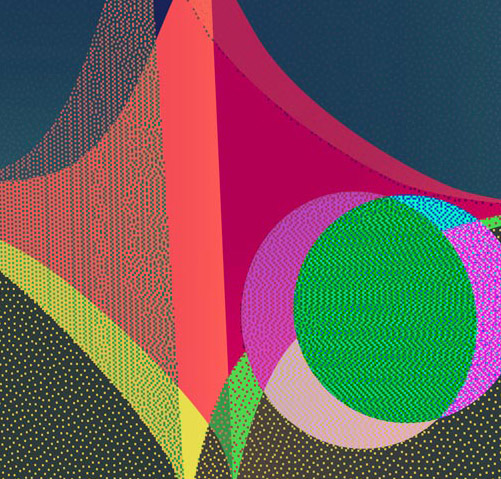
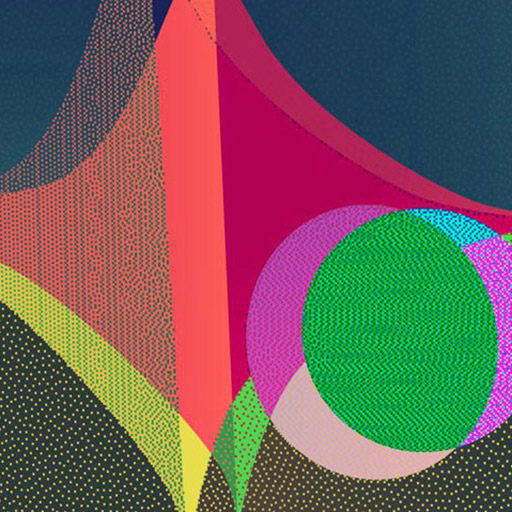
changed textures

diff --git a/js/app.js b/js/app.js
@@ -36,31 +36,66 @@ var PosArr = [
 
 var txtArr = [
     'img/t2.jpg',
-    'img/t7.jpg',
-    'img/t6.jpg',
     'img/t4.jpg',
-    'img/check3.jpg',
-    'img/check2.jpg',
-    'img/check1.jpg'
+    'img/t6.jpg',
+    'img/t7.jpg',
+    'img/t8.jpg',
+    'img/t9.jpg', 
+    'img/t2.jpg',
+    'img/t4.jpg',
+    'img/t6.jpg',
+    'img/t7.jpg',
+    'img/t8.jpg',
+    'img/t9.jpg'
 ]
 
 var textureArr = [];
 
-for (let i = 1; i < txtArr.length; i++) {
-
+for (let i = 0; i < txtArr.length; i++) {
     textureArr[i] = THREE.ImageUtils.loadTexture(txtArr[i]);
     textureArr[i].wrapS = textureArr[i].wrapT = THREE.RepeatWrapping;
     textureArr[i].offset.set(0, 0);
 }
 
-
 var TXTMaterial = [];
-for (let i = 1; i < txtArr.length; i++) {
+
+for (let i = 0; i < txtArr.length; i++) {
     TXTMaterial[i] = new THREE.MeshBasicMaterial({
         map: textureArr[i],
         overdraw: true
     });
 }
+
+
+// Floating box textures
+
+var TXTBoxSideMaterial = [];
+var TXTBoxSQMaterial = [];
+var txtBoxSideArr = ['img/BOX-SIDE-01.jpg', 'img/BOX-SIDE-02.jpg', 'img/BOX-SIDE-03.jpg'];
+
+for (let i = 0; i < txtBoxSideArr.length; i++) {
+    // Box side
+    let textureBoxSideArr = THREE.ImageUtils.loadTexture(txtBoxSideArr[i]);
+    textureBoxSideArr.wrapS = textureBoxSideArr.wrapT = THREE.RepeatWrapping;
+    textureBoxSideArr.repeat.set(1, 0.666666);
+    textureBoxSideArr.offset.set(0, 0.33333);
+    TXTBoxSideMaterial[i] = new THREE.MeshBasicMaterial({
+        map: textureBoxSideArr,
+        overdraw: true
+    });
+    // Box square
+    let textureBoxSQ = THREE.ImageUtils.loadTexture(txtBoxSideArr[i]);
+    textureBoxSQ.wrapS = textureBoxSQ.wrapT = THREE.RepeatWrapping;
+    textureBoxSQ.repeat.set(1, 0.333);
+    textureBoxSQ.offset.set(0, 0);
+    TXTBoxSQMaterial[i] = new THREE.MeshBasicMaterial({
+        map: textureBoxSQ,
+        overdraw: true
+    });
+}
+
+console.log(TXTBoxSQMaterial);
+
 
 var TZATexture = new THREE.TextureLoader().load('img/check4.jpg');
 TZATexture.anisotropy = 4;
@@ -97,19 +132,34 @@ var TZAMaterialCyl = new THREE.MeshPhongMaterial({
 
 function createMaterials() {
 
-    var rndTXT = Math.floor((Math.random() * (6 - 1)) + 1);
+    var rndTXT = Math.floor((Math.random() * textureArr.length));
 
     var materials = [
         TZAMaterial,
         TZAMaterial,
         TZAMaterial,
-        TXTMaterial[Math.floor((Math.random() * (4 - 1)) + 1)],
-        TXTMaterial[Math.floor((Math.random() * (4 - 1)) + 1)],
-        TXTMaterial[Math.floor((Math.random() * (4 - 1)) + 1)]
+        TXTMaterial[Math.floor((Math.random() * textureArr.length))],
+        TXTMaterial[Math.floor((Math.random() * textureArr.length))],
+        TXTMaterial[Math.floor((Math.random() * textureArr.length))]
 
     ];
     return materials;
 }
+
+
+function createMaterialBox(j) {
+    console.log('j:' + j);
+    var materials = [
+        TZAMaterial,
+        TZAMaterial,
+        TXTBoxSideMaterial[j],
+        TXTBoxSideMaterial[j],
+        TXTBoxSQMaterial[j],
+        TXTBoxSQMaterial[j]
+    ];
+    return materials;
+}
+
 
 function createMaterialsMobile() {
 
@@ -234,7 +284,7 @@ function init() {
 
 
             scene.add(meshArr[j]);
-            if (isMobile) {
+            if (true) { // TODO: check if device orientation 
                 // camera = new THREE.PerspectiveCamera(75, window.innerWidth / window.innerHeight, 20, 1000);
                 controls = new THREE.DeviceOrientationControls(scene);
 
@@ -254,47 +304,25 @@ function init() {
             if (j % 2) { // create box
 
 
-                boxArr[j] = new THREE.BoxBufferGeometry(boxWidth * 0.6, boxWidth, 120);
-                meshArr[j] = new THREE.Mesh(boxArr[j], createMaterials());
+                boxArr[j] = new THREE.BoxBufferGeometry(boxWidth, boxWidth, boxWidth * 2);
+                meshArr[j] = new THREE.Mesh(boxArr[j], createMaterialBox(Math.floor(Math.random() * 3 )));
 
             } else if (j % 3) { // create triangle cylincer
                 tmpCylinder = new THREE.CylinderGeometry(cylBase, cylBase, boxHeight , 3);
-                tmpCylinderGeo = new THREE.Mesh(tmpCylinder);
-                tmpCylinderGeo.position.y = 0;
-                tmpCylinderBsp = new ThreeBSP(tmpCylinderGeo);
-                var sphere_geometry = new THREE.CubeGeometry(200, cylBase * 2, 200);
-                var cube1 = new THREE.Mesh(sphere_geometry);
-                cube1.position.y = boxHeight/2;
-
-                cube1.rotation.z = Math.random();
-
-                var cube1_bsp = new ThreeBSP(cube1);
-
-                var cube2 = new THREE.Mesh(sphere_geometry);
-                cube2.position.y = (boxHeight/2) * -1;
-
-                cube2.rotation.z = -Math.random();
-
-                var cube2_bsp = new ThreeBSP(cube2);
-
-                var subtract_bsp = tmpCylinderBsp.subtract(cube2_bsp.union(cube1_bsp));
-
-                var result = subtract_bsp.toGeometry();
-
-                result.materials = [TXTMaterial[Math.floor((Math.random() * (4 - 1)) + 1)], TZAMaterialCyl];
-                for (m = 0; m < result.faces.length; m++) {
-                    if (m < result.faces.length - 6) {
-                        result.faces[m].materialIndex = 1; // material - map
+                tmpCylinder.materials = [TXTMaterial[j], TZAMaterialCyl];
+                for (m = 0; m < tmpCylinder.faces.length; m++) {
+                    if (m < tmpCylinder.faces.length - 6) {
+                        tmpCylinder.faces[m].materialIndex = 1; // material - map
 
                     } else {
-                        result.faces[m].materialIndex = 0; // material - color pattern
+                        tmpCylinder.faces[m].materialIndex = 0; // material - color pattern
 
                     }
                 }
 
                 // console.log(result.faces.length);
 
-                meshArr[j] = new THREE.Mesh(result, result.materials);
+                meshArr[j] = new THREE.Mesh(tmpCylinder, tmpCylinder.materials);
 
             } else { // create cylinder
 
@@ -302,7 +330,7 @@ function init() {
                 tmpCylinderGeo = new THREE.Mesh(tmpCylinder);
                 tmpCylinderGeo.position.y = 0;
                 tmpCylinderBsp = new ThreeBSP(tmpCylinderGeo);
-                var sphere_geometry = new THREE.CubeGeometry(200, cylBase * 2, 200);
+                var sphere_geometry = new THREE.CubeGeometry(300, cylBase * 2.5, 300);
                 var cube1 = new THREE.Mesh(sphere_geometry);
                 cube1.position.y = boxHeight * 0.8;
 
@@ -323,7 +351,7 @@ function init() {
 
                 // result.geometry.computeVertexNormals();
 
-                result.materials = [TXTMaterial[Math.floor((Math.random() * (4 - 1)) + 1)], TZAMaterialCyl];
+                result.materials = [TXTMaterial[j], TZAMaterialCyl];
                 for (m = 0; m < result.faces.length; m++) {
                     if (m < result.faces.length - 220) {
                         result.faces[m].materialIndex = 1; // material - map
@@ -547,11 +575,11 @@ function animate() {
                 }
                 if (j % 2) {
                     let CalcRoataionStage = currdistance * rotationSpeed / 1000;
-                    meshArr[j].rotation.y += (CalcRoataionStage * (Math.PI / 180));
+                    // meshArr[j].rotation.y += (CalcRoataionStage * (Math.PI / 180));
 
                 } else {
                     let CalcRoataionStage = currdistance * rotationSpeed / 1000;
-                    meshArr[j].rotation.x += (CalcRoataionStage * (Math.PI / 180));
+                    // meshArr[j].rotation.x += (CalcRoataionStage * (Math.PI / 180));
                 }
 
                 let vector = new THREE.Vector3(mouse.x, mouse.y, 0.5);
@@ -571,23 +599,21 @@ function animate() {
                 // Fx = (isNaN(Fx) ? 0 : Fx);
                 // Fy = (isNaN(Fy) ? 0 : Fy);
 
-// Integrate to get position
+                // Integrate to get position
 
-let DistX = MousePos.x-meshArr[j].position.x;
-let DistY = MousePos.y-meshArr[j].position.y;
+                let DistX = MousePos.x - meshArr[j].position.x;
+                let DistY = MousePos.y - meshArr[j].position.y;
 
-        if (DistX < 200)
-        {
-           meshArr[j].position.x += (DistX)/4000;  
-        }
+                if (DistX < 200) {
+                    meshArr[j].position.x += (DistX) / 4000;
+                }
 
-        if (DistY < 200)
-        {
-           meshArr[j].position.y += (DistY)/4000;  
-        }
-        //    meshArr[j].position.y += (DistY)/1000;  
+                if (DistY < 200) {
+                    meshArr[j].position.y += (DistY) / 4000;
+                }
+                //    meshArr[j].position.y += (DistY)/1000;  
 
-            
+
 
                 // meshArr[j].position.x += MousePos.x / 100;
                 // meshArr[j].position.y += MousePos.y / 100;
